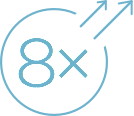
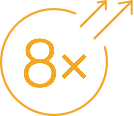
More work on new version

diff --git a/css/application.scss b/css/application.scss
@@ -1,28 +1,13 @@
 ---
 ---
 
-/*@font-face {
-  font-family: "gotham_proregular";
-  src: url("../vendor/fonts/gothaproreg-webfont.eot");
-  src: url("../vendor/fonts/gothaproreg-webfont.eot?#iefix") format("embedded-opentype"),
-       url("../vendor/fonts/gothaproreg-webfont.woff") format("woff"),
-       url("../vendor/fonts/gothaproreg-webfont.ttf") format("truetype");
-  font-weight: normal;
-  font-style: normal;
-}*/
-
-
 @font-face {
   font-family: 'AvenirNextCyr-Regular';
-  src: url('AvenirNextCyr-Regular.eot?#iefix') format('embedded-opentype'),  url('AvenirNextCyr-Regular.otf')  format('opentype'),
-	     url('AvenirNextCyr-Regular.woff') format('woff'), url('AvenirNextCyr-Regular.ttf')  format('truetype'), url('AvenirNextCyr-Regular.svg#AvenirNextCyr-Regular') format('svg');
+  src: url('../vendor/fonts/AvenirNextCyr-Regular.eot?#iefix') format('embedded-opentype'),  url('../vendor/fonts/AvenirNextCyr-Regular.otf')  format('opentype'),
+	     url('../vendor/fonts/AvenirNextCyr-Regular.woff') format('woff'), url('../vendor/fonts/AvenirNextCyr-Regular.ttf')  format('truetype'), url('../vendor/fonts/AvenirNextCyr-Regular.svg#AvenirNextCyr-Regular') format('svg');
   font-weight: normal;
   font-style: normal;
 }
-
-
-
-
 
 @mixin box-shadow($top, $left, $blur, $color, $inset: false) {
   @if $inset {
@@ -95,7 +80,7 @@ $subscribe-launch-right: #61B0C2;
 
 $mobile-breakpoint: 959px;
 $desktop-breakpoint: 960px;
-$regular-font-size: 15px;
+$regular-font-size: 14px;
 
 @include keyframes(manifesto-button) {
   0% { @include opacity(1); }
@@ -132,7 +117,7 @@ html, body {
 
 body.default {
   @media (min-width: $desktop-breakpoint) {
-    @include gradient-background();
+    background: url(../images/bg.jpg) no-repeat center center;
   }
 }
 
@@ -152,7 +137,7 @@ body.default {
 }
 
 .top {
-  @include gradient-background();
+  background: url(../images/bg.jpg) no-repeat center center;
 
   @media (min-width: $desktop-breakpoint) {
     position: absolute;
@@ -301,9 +286,10 @@ body.default {
       color: #fff;
 
       h1 {
+        font-family: "garamond-premier-pro";
         font-weight: normal;
-        font-size: 38px;
-        line-height: 46px;
+        font-size: 44px;
+        line-height: 60px;
         margin: 10px 0;
 
         @media (max-width: $mobile-breakpoint) {
@@ -325,7 +311,7 @@ body.default {
         color:#FFF;
         margin-top:20px;
         margin-bottom:40px;
-        background:rgba(0, 0, 0, .2);
+        background:rgba(0, 0, 0, .7);
         border-radius:5px;
         padding: 16px 18px;
 
@@ -333,16 +319,17 @@ body.default {
           color:#FF0;
         }
 
-        a{
-          color:#FF0;
+        a {
+          color: #F5A623;
           display: inline-block;
-          border-bottom: 1px solid rgba(255, 255, 0, .4);
-          -webkit-transition:all .6s ease;
-          text-decoration:none;
+          border-bottom: 1px solid #F5A623;
+          transition: all .6s ease;
+          text-decoration: none;
+
           &:hover{
-            color:#8CCBDC;
-            border-bottom: 1px solid rgba(140, 203, 220, .4);
-            -webkit-transition:all .2s ease;
+            color: #2B8EE1;
+            border-bottom: 1px solid #2B8EE1;
+            transition: all .2s ease;
           }
         }
       }
@@ -356,29 +343,31 @@ body.default {
         }
       }
     }
+  }
 
-    .devices {
-      position: absolute;
-      left: 50%;
-      width: 525px;
+  .example {
+    position: absolute;
+    left: 50%;
+    bottom: 0;
+    width: 525px;
 
-      @media (max-width: $mobile-breakpoint) {
-        display: none;
-      }
+    @media (max-width: $mobile-breakpoint) {
+      display: none;
+    }
 
-      span {
-        display: inline-block;
-        width: 492px;
-        height: 645px;
-        background: url(../images/devices.png) no-repeat center center;
-        background-size: 492px 645px;
-      }
+    iframe {
+      display: block;
+      width: 492px;
+      height: 445px;
+      border: 0;
     }
   }
 }
 
 .bottom {
   @include box-shadow(0, 1px, 3px, rgba(0, 0, 0, 29));
+  background: #212121;
+  color: #fff;
 
   @media (min-width: $desktop-breakpoint) {
     position: fixed;
@@ -388,8 +377,6 @@ body.default {
     height: 20%;
     min-height: 125px;
   }
-
-  background: #fff;
 
   .inner {
     @media (min-width: $desktop-breakpoint) {
@@ -442,7 +429,7 @@ body.default {
       &.icon02 {
         @media (min-width: $desktop-breakpoint) {
           background: url(../images/icon02.png) no-repeat center 20%;
-          background-size: 57px 66px;
+          background-size: 58px 67px;
         }
 
         @media (max-width: $mobile-breakpoint) {
@@ -454,7 +441,7 @@ body.default {
       &.icon03 {
         @media (min-width: $desktop-breakpoint) {
           background: url(../images/icon03.png) no-repeat center 20%;
-          background-size: 51px 61px;
+          background-size: 50px 61px;
         }
 
         @media (max-width: $mobile-breakpoint) {
@@ -466,7 +453,7 @@ body.default {
       &.icon04 {
         @media (min-width: $desktop-breakpoint) {
           background: url(../images/icon04.png) no-repeat center 20%;
-          background-size: 106px 59px;
+          background-size: 105px 60px;
         }
 
         @media (max-width: $mobile-breakpoint) {
@@ -478,7 +465,7 @@ body.default {
       &.icon05 {
         @media (min-width: $desktop-breakpoint) {
           background: url(../images/icon05.png) no-repeat center 20%;
-          background-size: 66px 60px;
+          background-size: 66px 61px;
         }
 
         @media (max-width: $mobile-breakpoint) {
@@ -503,25 +490,6 @@ body.default {
           padding: 0 10%;
         }
       }
-    }
-  }
-}
-
-.deep-bottom {
-  @media (min-width: $desktop-breakpoint) {
-    display: none;
-  }
-
-  @include gradient-background();
-  text-align: center;
-
-  .inner {
-    padding: 40px 10% 22px 10%;
-    width: 80%;
-
-    .btns {
-      margin-top: 0;
-      margin-bottom: 16px;
     }
   }
 }

diff --git a/_includes/en/landing.html b/_includes/en/landing.html
@@ -7,7 +7,7 @@
     </div>
     <div class="content">
       <div class="hero">
-        <h1>It Is Native Advertising Time</h1>
+        <h1>Native Advertising platform focused on brand storytelling</h1>
         <p>Create advertising stories and find readers and clients through media.</p>
         <p class="launch">
           This is a beta version of INFEEDL. Be the first one to join us! We are waiting for you at
@@ -18,7 +18,9 @@
           <div class="fb-like" data-href="https://www.facebook.com/infeedl" data-layout="button" data-action="like" data-show-faces="false" data-share="false"></div>
         </div>
       </div>
-      <div class="devices"><span></span></div>
+    </div>
+    <div class="example">
+      <iframe src="http://www.puree.su/#infeedl_sample"></iframe>
     </div>
   </div>
 </section>
@@ -27,7 +29,7 @@
   <div class="inner">
     <ul>
       <li class="icon01"><span>Up to 8 times higher CTR than that of banners</span></li>
-      <li class="icon02"><span>We will check your content and make it better, bigger and brighter</span></li>
+      <li class="icon02"><span>We will check your content and make it better</span></li>
       <li class="icon03"><span>Not a plugola, all ads have a product placement mark</span></li>
       <li class="icon04"><span>Promo articles, videos, infographics</span></li>
       <li class="icon05"><span>Responsive design</span></li>

diff --git a/_includes/scripts.html b/_includes/scripts.html
@@ -20,3 +20,6 @@
   ga('create', 'UA-56774901-1', 'auto');
   ga('send', 'pageview');
 </script>
+
+<script src="//use.typekit.net/vgc4ham.js"></script>
+<script>try{Typekit.load();}catch(e){}</script>
